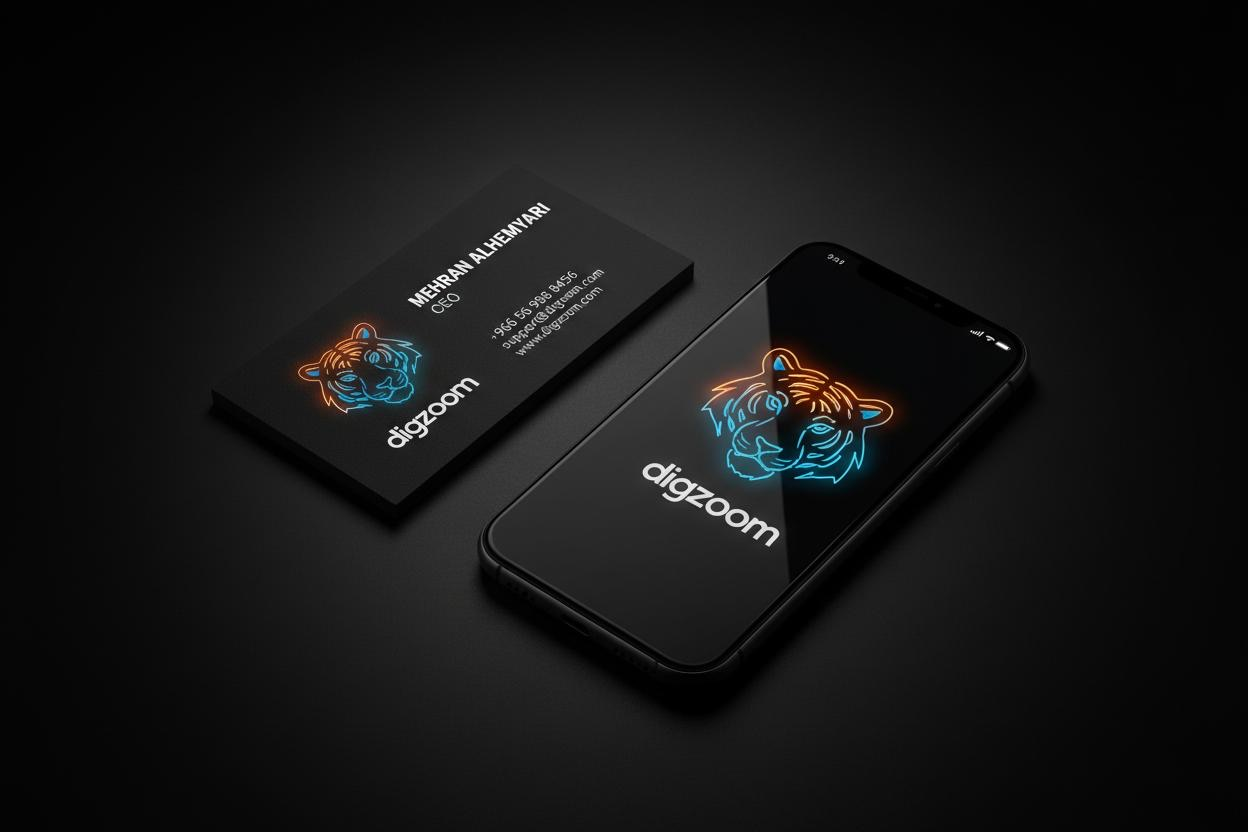
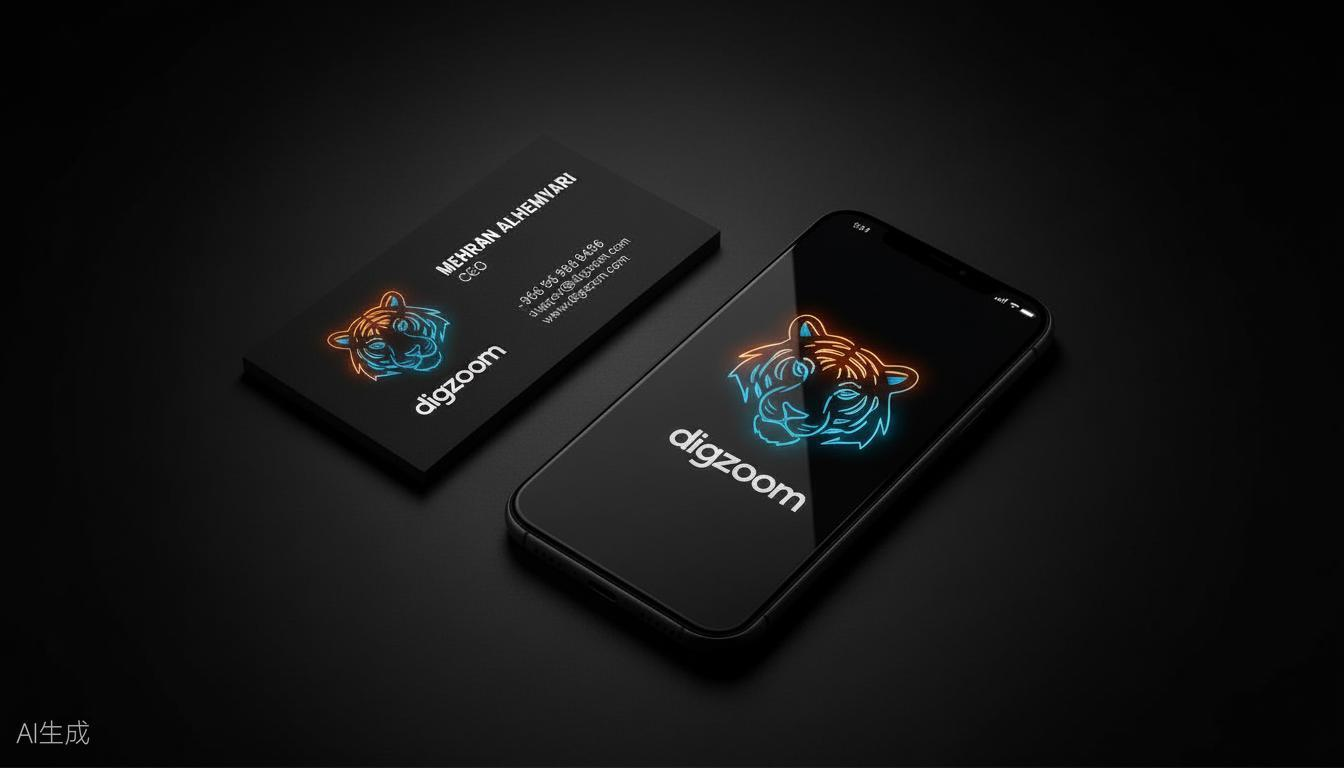
Fix: Arabic language in About page, remove circle from brand mockup
- Fix t.lang -> lang in About.tsx (3 places) causing English fallback
- Remove navigator from i18n detection (localStorage only)
- Generate new brand-mockup.jpg without circle/arrow

diff --git a/src/pages/About.tsx b/src/pages/About.tsx
@@ -37,10 +37,10 @@ export default function About() {
         {/* What We Offer — Stripe Compliance Section */}
         <div className="mb-20">
           <h2 className="text-3xl font-bold text-white text-center mb-4">
-            {t.lang === 'ar' ? 'ماذا نقدم' : 'What We Offer'}
+            {lang === 'ar' ? 'ماذا نقدم' : 'What We Offer'}
           </h2>
           <p className="text-gray-400 text-center max-w-xl mx-auto mb-10">
-            {t.lang === 'ar'
+            {lang === 'ar'
               ? 'نحن سوق رقمي متخصص في المنتجات والملفات الرقمية القابلة للتحميل'
               : 'We are a digital marketplace specializing in downloadable digital products and files'}
           </p>
@@ -63,10 +63,10 @@ export default function About() {
         {/* Brand Identity */}
         <div className="mb-20">
           <h2 className="text-3xl font-bold text-white text-center mb-4">
-            {t.lang === 'ar' ? 'هوية digzoom' : 'The digzoom Identity'}
+            {lang === 'ar' ? 'هوية digzoom' : 'The digzoom Identity'}
           </h2>
           <p className="text-gray-400 text-center max-w-xl mx-auto mb-10">
-            {t.lang === 'ar'
+            {lang === 'ar'
               ? 'النمر الرقمي — رمز القوة والتقنية في عالم المنتجات الرقمية'
               : 'The Digital Tiger — a symbol of power and technology in the digital products world'}
           </p>

diff --git a/src/i18n/i18n.ts b/src/i18n/i18n.ts
@@ -16,7 +16,7 @@ i18n
     resources,
     fallbackLng: 'ar',
     detection: {
-      order: ['localStorage', 'navigator'],
+      order: ['localStorage'],
       lookupLocalStorage: 'digzoom-lang',
       caches: ['localStorage'],
     },
